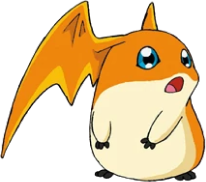
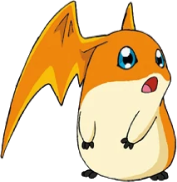
feat: changing state of digimon

diff --git a/src/components/main/Main.tsx b/src/components/main/Main.tsx
@@ -1,38 +1,71 @@
-import { SetStateAction } from 'react'
-import digimonOneImg from '../../assets/image 50.svg'
+import { SetStateAction, useState } from 'react'
 import { Button, ButtonContainer } from '../button/styles'
 import Card from '../card/Card'
 import CardGroup from '../cards/CardGroup'
 import { MainContainer } from './styles'
 
 import agumon from "../../assets/agumon.png";
+import gabumon from "../../assets/gabumon.png";
+import garudamon from "../../assets/garudamon.png";
+import gatomon from "../../assets/gatomon.png";
+import growmon from "../../assets/growmon.png";
+import guilmon from "../../assets/guilmon.png";
+import veemon from "../../assets/veemon.png";
+import patamon from "../../assets/patamon.png";
+import metalgreymon from "../../assets/metalgreymon.png";
+
+
 
 interface MainProps {
-    changeTheme: (theme: SetStateAction<"light" | "dark">) => void
+    changeTheme: (theme: SetStateAction<"light" | "dark">) => void;
+    theme: "light" | "dark";
 }
 
-export function Main({ changeTheme }: MainProps): JSX.Element {
+export function Main({ changeTheme, theme }: MainProps): JSX.Element {
+    const [digimon, setDigimon] = useState(agumon);
+    const [image, setImage] = useState(digimon.split('?')[0]);
+
+    const selectDigimon = (image: string) => {
+        setDigimon(image);
+    }
+
+    console.log(image);
+
+    const changeToDark = () => {
+        if (theme === 'dark') return;
+
+        setImage(`${image.split(".")[0]}-black.png`);
+        changeTheme('dark');
+    }
+
+    const changeToLight = () => {
+        if (theme === 'light') return;
+
+        setImage(`${image.substring(0, image.length - 10)}.png`);
+        changeTheme('light');
+    }
+
     return (
         <MainContainer>
             <section className="image-container">
                 <div>
-                    <img src={digimonOneImg} alt="Imagem Digimon" />
+                    <img src={digimon} alt="Imagem Digimon" />
                     <p>Digimon</p>
                 </div>
 
                 <ButtonContainer>
                     <Button
-                        onClick={() => changeTheme('light')}
+                        onClick={changeToLight}
                         color='#1D3C43'
-                        bgColor='#93CBC4'
+                        bgcolor='#93CBC4'
                     >
                         LIGHT THEME
                     </Button>
-                    
+
                     <Button
-                        onClick={() => changeTheme('dark')}
+                        onClick={changeToDark}
                         color='#FFFFFF'
-                        bgColor='#1D3C43'
+                        bgcolor='#1D3C43'
                     >
                         DARK THEME
                     </Button>
@@ -41,16 +74,16 @@ export function Main({ changeTheme }: MainProps): JSX.Element {
 
             <section className='cards-container'>
                 <CardGroup>
-                    <Card src={agumon} />
-                    <Card src={agumon} />
-                    <Card src={agumon} />
-                    <Card src={agumon} />
-                    <Card src={agumon} />
-                    <Card src={agumon} />
-                    <Card src={agumon} />
-                    <Card src={agumon} />
-                    <Card src={agumon} />
-                    <Card src={agumon} />
+                    <Card chageDigimon={() => selectDigimon(agumon)} src={agumon} />
+                    <Card chageDigimon={() => selectDigimon(guilmon)} src={guilmon} />
+                    <Card chageDigimon={() => selectDigimon(gabumon)} src={gabumon} />
+                    <Card chageDigimon={() => selectDigimon(patamon)} src={patamon} />
+                    <Card chageDigimon={() => selectDigimon(veemon)} src={veemon} />
+                    <Card chageDigimon={() => selectDigimon(gatomon)} src={gatomon} />
+                    <Card chageDigimon={() => selectDigimon(growmon)} src={growmon} />
+                    <Card chageDigimon={() => selectDigimon(metalgreymon)} src={metalgreymon} />
+                    <Card chageDigimon={() => selectDigimon(garudamon)} src={garudamon} />
+                    <Card chageDigimon={() => selectDigimon(agumon)} src={agumon} />
                 </CardGroup>
             </section>
         </MainContainer>

diff --git a/src/App.tsx b/src/App.tsx
@@ -6,8 +6,9 @@ import { SetStateAction, useState } from "react";
 import { Header } from "./components/header/Header";
 import { Main } from "./components/main/Main";
 
-export default function App() {
 
+
+export default function App() {
   const [theme, setTheme] = useState<'light' | 'dark'>('light');
 
   function handleTheme(theme: SetStateAction<"light" | "dark">) {
@@ -19,7 +20,7 @@ export default function App() {
       <ThemeProvider theme={theme === 'light' ? lightTheme : darkTheme}>
         <GlobalStyles />
         <Header />
-        <Main changeTheme={handleTheme} />
+        <Main theme={theme} changeTheme={handleTheme} />
       </ThemeProvider>
     </>
   )

diff --git a/src/components/button/styles.ts b/src/components/button/styles.ts
@@ -1,11 +1,11 @@
 import styled from "styled-components";
 
 type BgColorProps = '#93CBC4' | '#1D3C43';
-type ColorProps = '#FFFFFF' | '#1D3C43' 
+type ColorProps = '#FFFFFF' | '#1D3C43'
 
 interface ButtonProps {
     children: React.ReactNode,
-    bgColor: BgColorProps
+    bgcolor: BgColorProps
     color: ColorProps
 }
 
@@ -21,7 +21,7 @@ export const Button = styled.button<ButtonProps>`
     height: 60px;
     width: 20rem;
     font-size: 1.25rem;
-    background-color: ${({ bgColor }) => bgColor};
+    background-color: ${(props) => props.bgcolor};
     border-radius: 8px;
     border: none;
     color: ${(props) => props.color};

diff --git a/src/components/card/Card.tsx b/src/components/card/Card.tsx
@@ -1,12 +1,13 @@
 import { CardContainer } from "./styles";
 
 interface CardProps {
+    chageDigimon: () => void,
     src: string;
 }
 
-export default function Card({ src }: CardProps) {
+export default function Card({ src, chageDigimon }: CardProps) {
     return (
-        <CardContainer>
+        <CardContainer onClick={chageDigimon}>
             <img src={src} alt="Figura de um Digimon" />
         </CardContainer>
     );

diff --git a/src/components/card/styles.ts b/src/components/card/styles.ts
@@ -1,11 +1,12 @@
 import styled from "styled-components";
 
-export const CardContainer = styled.div`
+export const CardContainer = styled.button`
     height: 10rem;
     width: 8rem;
-    padding: 1rem 0.5rem;
+    padding: 1.8rem 0.5rem;
     background: linear-gradient(to top, ${({ theme }) => theme.text}, ${({ theme }) => theme.primary});
     border-radius: 5px;
+    border: none;
 
     & img {
         height: 100%;
